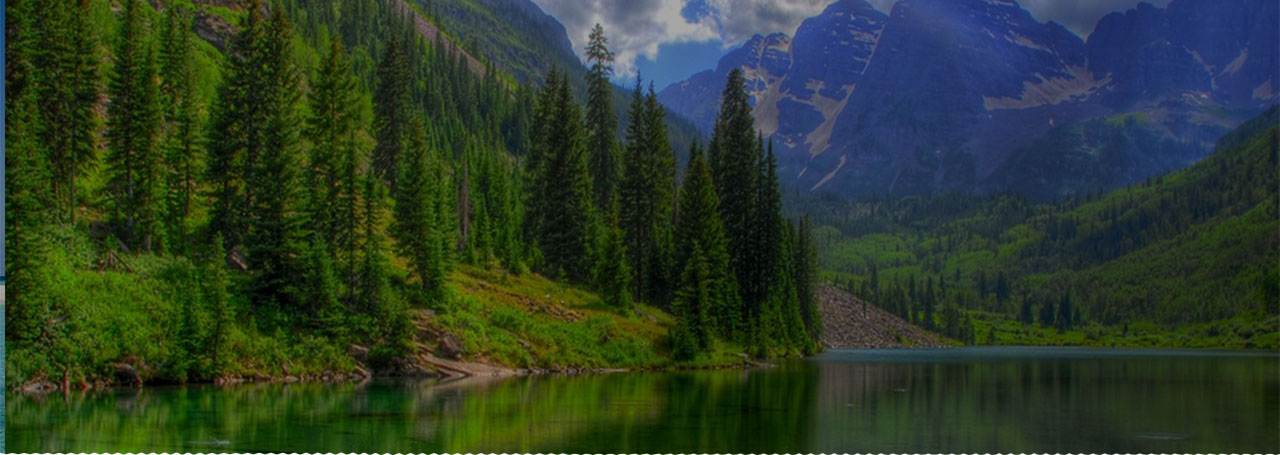
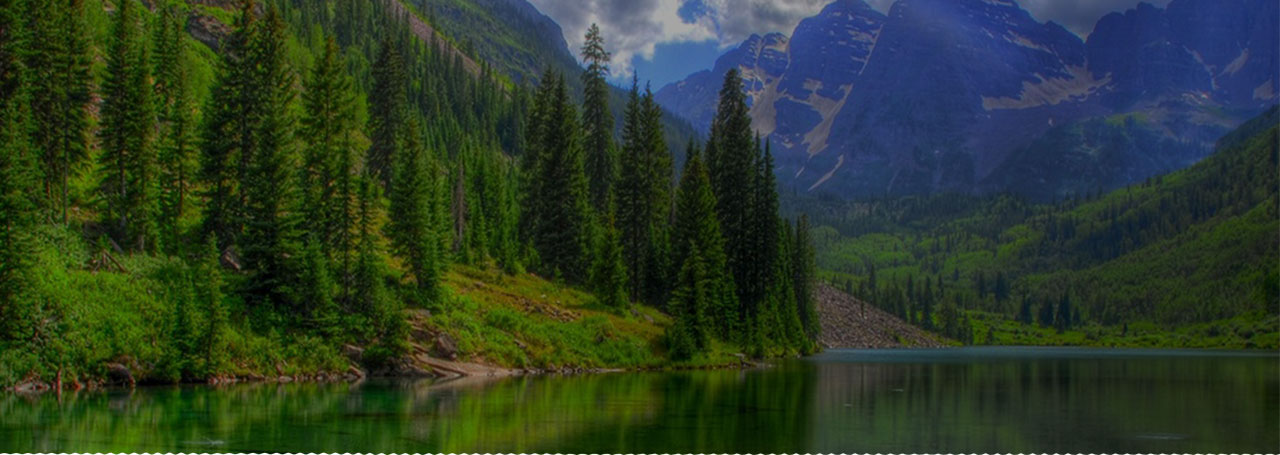
hotfix

diff --git a/web/css/landing.css b/web/css/landing.css
@@ -757,7 +757,7 @@ a, a:active, a:hover, a:visited, a:focus {
     top: 0;
     right: 0;
     bottom: 0;
-    background: rgba(0, 0, 0, 0.15);
+    background: rgba(0, 0, 0, 0.4);
 }
 
 #modal-privacy {

diff --git a/web/css/styles.css b/web/css/styles.css
@@ -1297,5 +1297,5 @@ a, a:active, a:hover, a:visited, a:focus {
     top: 0;
     right: 0;
     bottom: 0;
-    background: rgba(0, 0, 0, 0.3);
+    background: rgba(0, 0, 0, 0.4);
 }
